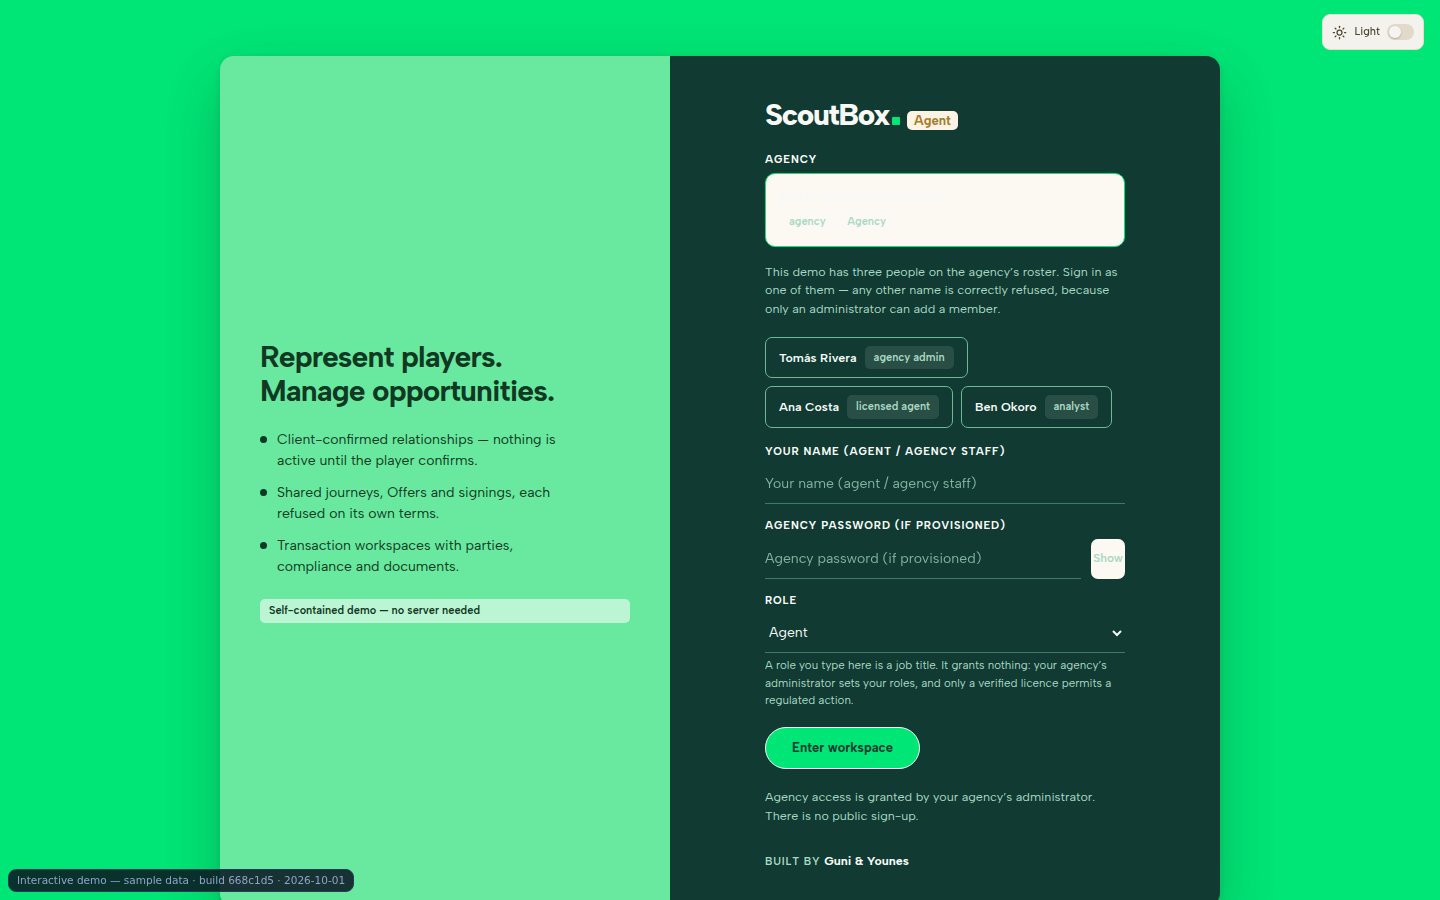
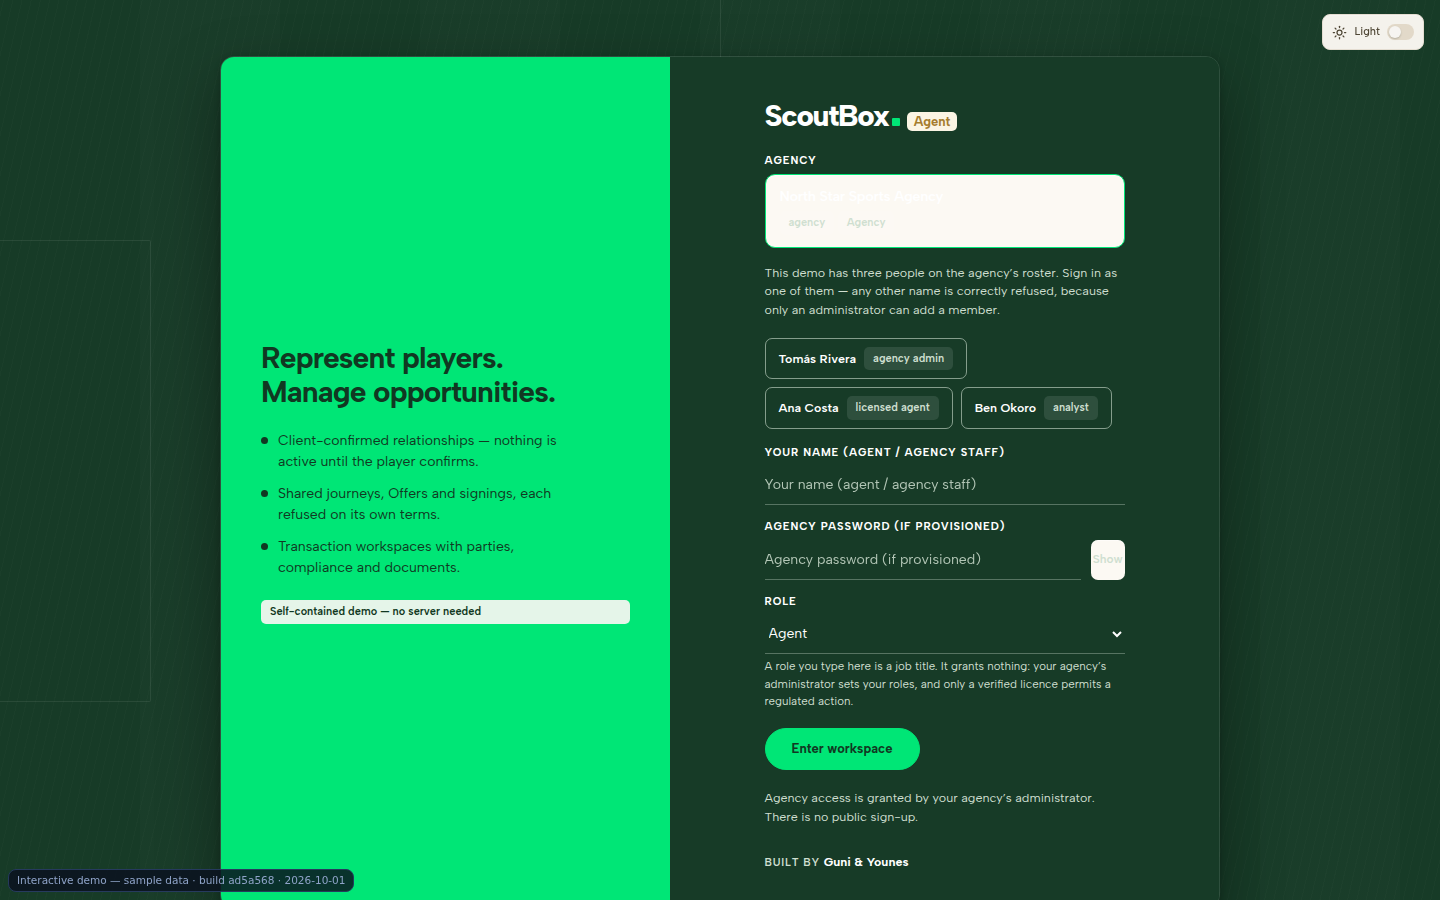
M24C.1: entry-screen frames and notes in the ScoutBox greens
Claude-Session: https://claude.ai/code/session_013yjAY7aDf2i5xuqFheoSu9

diff --git a/M24C_PLAYER_MOBILE_AND_AUTH.md b/M24C_PLAYER_MOBILE_AND_AUTH.md
@@ -90,14 +90,23 @@ values; colours come from the active palette so light and dark both match):
 ## 3. Authentication (all applications)
 
 `design-system/AuthShell.tsx` + the `.login.auth-page` block in
-`design-system/platform.css`: the `#00E676` page, one centred card of at most
-1000 px (introduction `#68E99F` ≈45%, form `#103A32` ≈55%, 14 px radius, soft
+`design-system/platform.css`. **M24C.1 palette** (the `--auth-*` tokens;
+`AUTH_PANEL` / `AUTH_PAGE` on the Player): the page and the form are the
+dark football green `#173B27` of the Football Passport card, the
+introduction is the bright brand green `#00E676` with `#113822` text, the
+submit is `#00E676` with `#113822` text (pressed: `#113822`), pale
+supporting surfaces are `#E5F5E9`, text on dark green is white with
+`#CFDFD0` for supporting copy and placeholders, underlines are light green at
+35 %, focus is `#00E676`. Behind the centred surfaces the approved pitch
+motif (white boundary, halfway line, centre circle and spot, one penalty
+area at 8 %, grain and mowing bands under 2 %, 1 px lines) — oversized on
+desktop so it shows in the margins, upright and cropped on a phone, never
+in front of a tap or in the accessibility tree, never moving. One centred
+card of at most 1000 px (introduction ≈45 %, form ≈55 %, 14 px radius, soft
 shadow, 44 px padding, form content 360 px wide), the ScoutBox wordmark with
 the product identity above the form, `AuthTabs` only where sign-up exists,
-`AuthField` labelled underlined inputs (`#F7FAF7` text, light-green
-underlines, `#00E676` focus), `PasswordInput` with show / hide, and the
-compact rounded light submit with deep-green text. Under 720 px the panels
-stack. The theme toggle stays on the page (its stored choice is restored in
+`AuthField` labelled underlined inputs, `PasswordInput` with show / hide, and
+the compact rounded submit. Under 720 px the panels stack. The theme toggle stays on the page (its stored choice is restored in
 the workspace after sign-in); the entry surface itself keeps its brand
 colours in both states. Nothing here touches the signed-in theme tokens.
 
